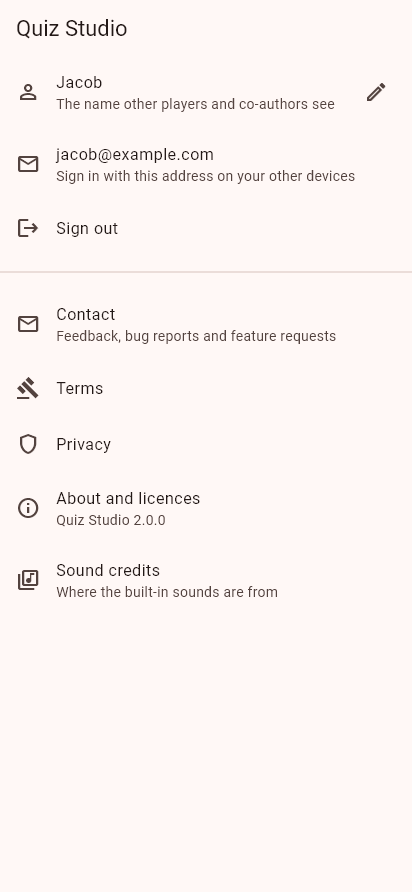
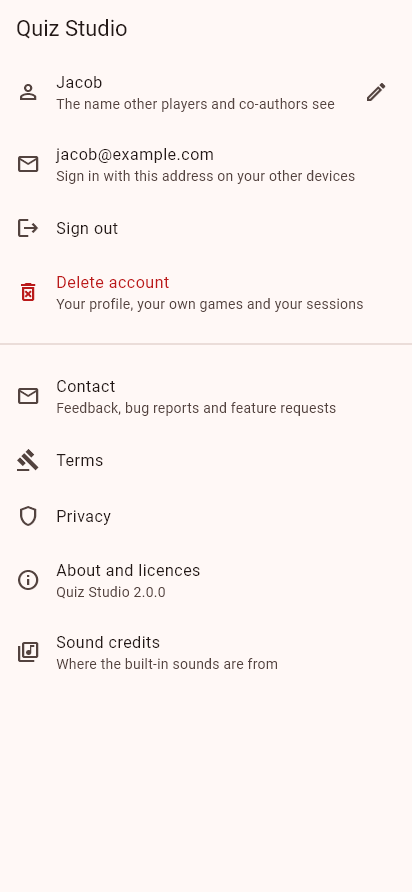
Delete account in the app: own games and sessions go, shared games are handed over
An only admin hands a shared game to a co-author; games nobody else is in
are deleted with their media; hosted sessions and the profile go, then the
sign-in. Email accounts confirm with their password first. The website's
deletion page describes it.

diff --git a/lib/features/settings/account_page.dart b/lib/features/settings/account_page.dart
@@ -9,6 +9,7 @@ import 'package:url_launcher/url_launcher.dart';
 import 'package:quiz_show/core/widgets/dialogs.dart';
 import 'package:quiz_show/features/auth/user_service.dart';
 import 'package:quiz_show/features/auth/widgets/auth_form.dart';
+import 'package:quiz_show/features/settings/account_deletion.dart';
 import 'package:quiz_show/features/settings/sound_credits.dart';
 
 const String _termsUrl = 'https://equirinya.github.io/quiz_studio/terms.html';
@@ -97,6 +98,35 @@ class _AccountPageState extends State<AccountPage> {
     await FirebaseAuth.instance.signOut();
   }
 
+  Future<void> _delete() async {
+    final user = FirebaseAuth.instance.currentUser;
+    if (user == null) return;
+    final navigator = Navigator.of(context);
+    final messenger = ScaffoldMessenger.of(context);
+    final password = await showDialog<String>(context: context, builder: (_) => DeleteAccountDialog(email: user.email));
+    if (password == null || !mounted) return;
+    showDialog<void>(
+      context: context,
+      barrierDismissible: false,
+      builder: (_) => const PopScope(
+        canPop: false,
+        child: AlertDialog(content: Row(children: [CircularProgressIndicator(), SizedBox(width: 20), Expanded(child: Text("Deleting your account…"))])),
+      ),
+    );
+    try {
+      await Assistant.instance.stop();
+      await deleteAccount(password: user.email == null ? null : password);
+      navigator.popUntil((route) => route.isFirst);
+      messenger.showSnackBar(const SnackBar(content: Text("Your account and its data are deleted.")));
+    } on FirebaseAuthException catch (e) {
+      navigator.pop();
+      messenger.showSnackBar(SnackBar(content: Text(deletionErrorMessage(e.code))));
+    } catch (_) {
+      navigator.pop();
+      messenger.showSnackBar(const SnackBar(content: Text("The account could not be deleted. Check the connection and try again.")));
+    }
+  }
+
   @override
   Widget build(BuildContext context) {
     final user = FirebaseAuth.instance.currentUser;
@@ -110,6 +140,7 @@ class _AccountPageState extends State<AccountPage> {
         onRename: _rename,
         onUpgrade: _upgrade,
         onSignOut: () => _signOut(user?.isAnonymous ?? true),
+        onDelete: _delete,
         assistant: Assistant.supported ? const AssistantSection() : null,
       ),
     );
@@ -127,6 +158,7 @@ class AccountView extends StatelessWidget {
     required this.onRename,
     required this.onUpgrade,
     required this.onSignOut,
+    this.onDelete,
     this.assistant,
   });
 
@@ -137,6 +169,9 @@ class AccountView extends StatelessWidget {
   final VoidCallback onRename;
   final VoidCallback onUpgrade;
   final VoidCallback onSignOut;
+
+  /// Deleting the account; null hides it.
+  final VoidCallback? onDelete;
 
   /// The assistant switch, on computers.
   final Widget? assistant;
@@ -192,6 +227,13 @@ class AccountView extends StatelessWidget {
             subtitle: const Text("Sign in with this address on your other devices"),
           ),
         ListTile(leading: const Icon(Icons.logout), title: const Text("Sign out"), onTap: onSignOut),
+        if (onDelete != null)
+          ListTile(
+            leading: Icon(Icons.delete_forever_outlined, color: scheme.error),
+            title: Text("Delete account", style: TextStyle(color: scheme.error)),
+            subtitle: const Text("Your profile, your own games and your sessions"),
+            onTap: onDelete,
+          ),
         if (assistant != null) ...[const Divider(height: 32), assistant!],
         const Divider(height: 32),
         ListTile(
@@ -218,3 +260,72 @@ class AccountView extends StatelessWidget {
     );
   }
 }
+
+/// Asks before deleting the account, and for the password of one with an
+/// email address. Pops with the password ('' for a guest), or null.
+class DeleteAccountDialog extends StatefulWidget {
+  const DeleteAccountDialog({super.key, required this.email});
+
+  final String? email;
+
+  @override
+  State<DeleteAccountDialog> createState() => _DeleteAccountDialogState();
+}
+
+class _DeleteAccountDialogState extends State<DeleteAccountDialog> {
+  final TextEditingController _password = TextEditingController();
+
+  @override
+  void dispose() {
+    _password.dispose();
+    super.dispose();
+  }
+
+  @override
+  Widget build(BuildContext context) {
+    final scheme = Theme.of(context).colorScheme;
+    final needsPassword = widget.email != null;
+    return AlertDialog(
+      icon: Icon(Icons.delete_forever_outlined, color: scheme.error),
+      title: const Text("Delete account?"),
+      content: Column(
+        mainAxisSize: MainAxisSize.min,
+        crossAxisAlignment: CrossAxisAlignment.start,
+        children: [
+          const Text(
+            "This deletes your profile, the games only you are in, with their pictures and sounds, and the sessions you host. "
+            "Games you share stay with the others; if you are their only admin, a co-author becomes admin. "
+            "This cannot be undone.",
+          ),
+          if (needsPassword) ...[
+            const SizedBox(height: 16),
+            TextField(
+              controller: _password,
+              obscureText: true,
+              autofocus: true,
+              decoration: InputDecoration(labelText: "Password", helperText: widget.email),
+              onChanged: (_) => setState(() {}),
+            ),
+          ],
+        ],
+      ),
+      actions: [
+        TextButton(onPressed: () => Navigator.of(context).pop(), child: const Text("Cancel")),
+        FilledButton(
+          style: FilledButton.styleFrom(backgroundColor: scheme.error, foregroundColor: scheme.onError),
+          onPressed: needsPassword && _password.text.isEmpty ? null : () => Navigator.of(context).pop(needsPassword ? _password.text : ''),
+          child: const Text("Delete"),
+        ),
+      ],
+    );
+  }
+}
+
+/// What to tell someone whose account could not be deleted.
+String deletionErrorMessage(String code) => switch (code) {
+      'wrong-password' || 'invalid-credential' || 'invalid-login-credentials' => "That password is not right.",
+      'too-many-requests' => "Too many tries. Wait a moment and try again.",
+      'requires-recent-login' => "Sign out, sign in again and then delete the account.",
+      'network-request-failed' => "No connection. Try again when you are online.",
+      _ => "The account could not be deleted. Try again.",
+    };

diff --git a/lib/features/settings/account_deletion.dart b/lib/features/settings/account_deletion.dart
@@ -1,0 +1,103 @@
+import 'package:cloud_firestore/cloud_firestore.dart';
+import 'package:firebase_auth/firebase_auth.dart';
+import 'package:flutter/foundation.dart';
+
+import 'package:quiz_show/features/games/game_repository.dart';
+import 'package:quiz_show/features/games/media_service.dart';
+import 'package:quiz_show/features/session/session_repository.dart';
+
+/// How someone who deletes their account leaves one game.
+sealed class GameExit {
+  const GameExit();
+}
+
+/// Nobody else is in it: the game goes, with its media.
+class DeleteGame extends GameExit {
+  const DeleteGame();
+}
+
+/// Others stay: the account takes itself off the game's lists, after
+/// [promote] has been made admin when the account was the only one.
+class LeaveGame extends GameExit {
+  const LeaveGame({this.promote});
+  final String? promote;
+}
+
+/// What [uid] does with a game whose document holds [data]: an only admin
+/// hands the game to a full member, or failing that a limited one, so a game
+/// is never left without an admin; a game with nobody else in it is deleted.
+GameExit exitFor(String uid, Map<String, dynamic> data) {
+  List<String> list(String field) => [for (final e in data[field] as List? ?? const []) '$e'];
+  final admins = list('admin').where((id) => id != uid).toList();
+  final full = list('full').where((id) => id != uid).toList();
+  final limited = list('limited').where((id) => id != uid).toList();
+  if (!list('admin').contains(uid) || admins.isNotEmpty) return const LeaveGame();
+  final heir = full.firstOrNull ?? limited.firstOrNull;
+  return heir == null ? const DeleteGame() : LeaveGame(promote: heir);
+}
+
+/// Deletes the signed-in account and what is only its own: games nobody
+/// else is in (with their pictures and sounds), the sessions it hosts, and
+/// its profile. Shared games are handed over or left. The sign-in goes last.
+///
+/// Firebase only deletes a sign-in that was made recently; an account with
+/// an email address is therefore asked for its password first ([password]),
+/// so that nothing is deleted while the last step would still fail.
+Future<void> deleteAccount({String? password}) async {
+  final auth = FirebaseAuth.instance;
+  final user = auth.currentUser;
+  if (user == null) throw StateError("Not signed in.");
+  if (user.email != null && password != null) {
+    await user.reauthenticateWithCredential(EmailAuthProvider.credential(email: user.email!, password: password));
+  }
+  final db = FirebaseFirestore.instance;
+  final uid = user.uid;
+
+  // Games, one query per access list (the rules only allow those).
+  final docs = <String, Map<String, dynamic>>{};
+  for (final role in GameRole.values) {
+    final snapshot = await db.collection('games').where(role.name, arrayContains: uid).get();
+    for (final doc in snapshot.docs) {
+      docs[doc.id] = doc.data();
+    }
+  }
+  for (final MapEntry(key: gameId, value: data) in docs.entries) {
+    switch (exitFor(uid, data)) {
+      case DeleteGame():
+        final content = (await GameRepository.instance.watchGame(gameId).first).content;
+        for (final name in content.mediaPaths) {
+          await MediaService.instance.delete(gameId, name);
+        }
+        await GameRepository.instance.deleteGame(content);
+      case LeaveGame(:final promote):
+        await db.collection('games').doc(gameId).update({
+          if (promote != null) 'admin': [promote] else 'admin': FieldValue.arrayRemove([uid]),
+          'full': FieldValue.arrayRemove([uid, ?promote]),
+          'limited': FieldValue.arrayRemove([uid, ?promote]),
+        });
+    }
+  }
+
+  // Sessions it hosts.
+  final sessions = await db.collection('sessions').where('host', isEqualTo: uid).get();
+  for (final session in sessions.docs) {
+    try {
+      await SessionRepository.instance.deleteSession(session.id);
+    } catch (error) {
+      if (kDebugMode) print('Account: could not delete session ${session.id}: $error');
+    }
+  }
+
+  // The profile, then the sign-in itself.
+  await db.batch().commitDeletes([db.collection('users_public').doc(uid), db.collection('users').doc(uid)]);
+  await user.delete();
+}
+
+extension on WriteBatch {
+  Future<void> commitDeletes(List<DocumentReference<Map<String, dynamic>>> refs) {
+    for (final ref in refs) {
+      delete(ref);
+    }
+    return commit();
+  }
+}

diff --git a/test/account_deletion_test.dart b/test/account_deletion_test.dart
@@ -1,0 +1,21 @@
+import 'package:flutter_test/flutter_test.dart';
+import 'package:quiz_show/features/settings/account_deletion.dart';
+
+void main() {
+  group('leaving games when the account is deleted', () {
+    test('a game nobody else is in is deleted', () {
+      expect(exitFor('me', {'admin': ['me'], 'full': [], 'limited': []}), isA<DeleteGame>());
+    });
+
+    test('an only admin hands the game to a full member, or else to a limited one', () {
+      expect((exitFor('me', {'admin': ['me'], 'full': ['ann', 'bob'], 'limited': ['liz']}) as LeaveGame).promote, 'ann');
+      expect((exitFor('me', {'admin': ['me'], 'full': [], 'limited': ['liz']}) as LeaveGame).promote, 'liz');
+    });
+
+    test('with another admin, or as a co-author, the account just leaves', () {
+      expect((exitFor('me', {'admin': ['me', 'ada'], 'full': [], 'limited': []}) as LeaveGame).promote, isNull);
+      expect((exitFor('me', {'admin': ['ada'], 'full': ['me'], 'limited': []}) as LeaveGame).promote, isNull);
+      expect((exitFor('me', {'admin': ['ada'], 'limited': ['me']}) as LeaveGame).promote, isNull);
+    });
+  });
+}

diff --git a/tool/screenshot_test.dart b/tool/screenshot_test.dart
@@ -1045,9 +1045,15 @@ void main() {
         onRename: () {},
         onUpgrade: () {},
         onSignOut: () {},
+        onDelete: () {},
       ),
     );
     await shot('account_email');
+  });
+
+  testWidgets('account: deleting asks for the password', (tester) async {
+    await page(tester, const Center(child: DeleteAccountDialog(email: 'jacob@example.com')));
+    await shot('account_delete');
   });
 
   Future<void> assistantPage(WidgetTester tester, AssistantClient client, List<String> activity) => page(

diff --git a/docs/delete-account.md b/docs/delete-account.md
@@ -13,16 +13,22 @@ title: Account Deletion Request
 </style>
 
 
-# Request Account and Data Deletion
+# Delete Your Account and Data
 
-We're sorry to see you go! If you would like to delete your account, you can do so by sending an email request to our support team.
+## In the app
 
-## What happens when I delete my account?
-Upon processing your request, we will permanently delete your user account and all the content generated by you from our servers. This includes, but is not limited to:
-- Your user account and profile data
-- All your created questions, answers, and comments
+Open the app, tap the account icon at the top right, then **Delete account**. Accounts with an email address confirm with their password. The account is deleted right away.
 
-**Please note:** This data will be completely removed from all quizzes that you participated in. This action is irreversible.
+## What is deleted
+- Your sign-in and your profile (your name)
+- Games only you are in, with their questions, pictures and sounds
+- The quiz sessions you host
+
+Games you share with others stay with them, including the questions you wrote there. If you were a game's only admin, one of its co-authors becomes admin. This cannot be undone.
+
+## By email
+
+If you can no longer open the app, send us an email instead and we will delete the account for you.
 
 ## Send Deletion Request
 
